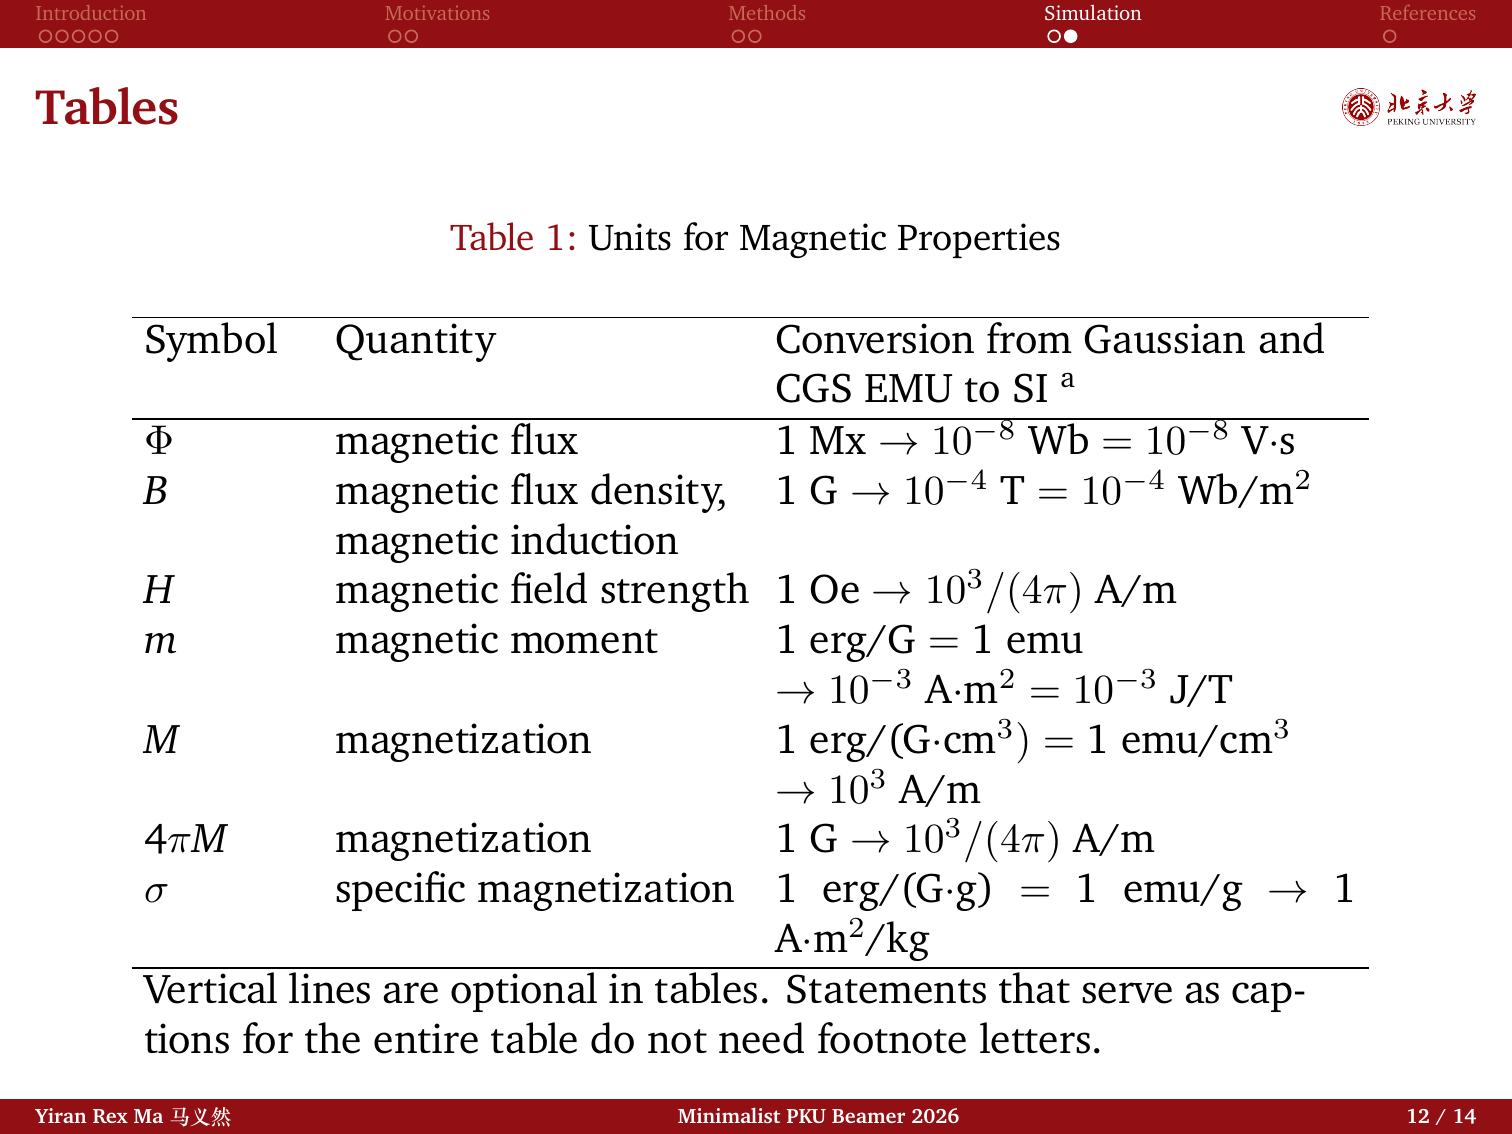
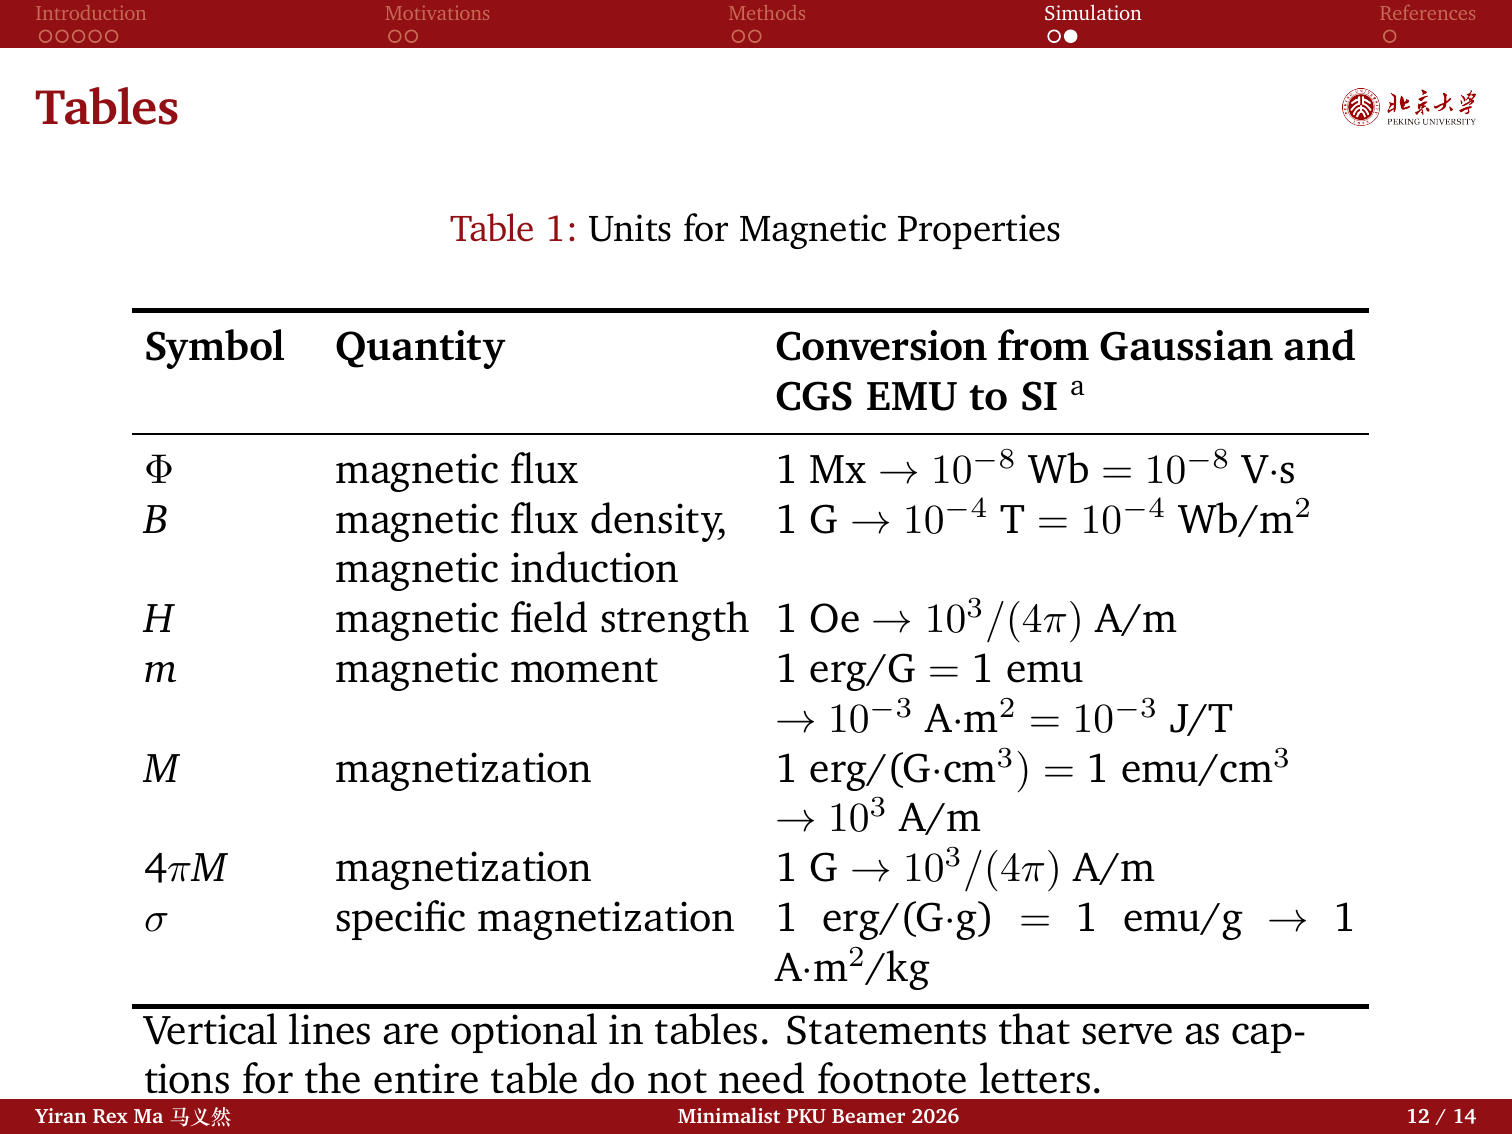
Add 4:3/16:9 aspect-ratio switch and three-line table theme (heavy outer rules, bold black headers)

diff --git a/main.tex b/main.tex
@@ -1,4 +1,5 @@
-\documentclass[10pt,hyperref={colorlinks,citecolor=peking_blue,urlcolor=peking_blue,linkcolor=}]{beamer}
+% 画幅切换：aspectratio=43（4:3，默认）↔ aspectratio=169（16:9）
+\documentclass[10pt,aspectratio=43,hyperref={colorlinks,citecolor=peking_blue,urlcolor=peking_blue,linkcolor=}]{beamer}
 \usepackage{PekingU}
 \usefonttheme{serif}
 \usepackage{lipsum}
@@ -199,11 +200,11 @@ important contents are \textcolor{peking}{\bf bold red} \citep{MachineLearningI}
         \label{table}
         \setlength{\tabcolsep}{3pt}
         \begin{tabular}{p{40pt}p{100pt}p{140pt}}
-        \hline
-        Symbol& 
-        Quantity& 
-        Conversion from Gaussian and \par CGS EMU to SI $^{\mathrm{a}}$ \\
-        \hline
+        \toprule
+        {\bfseries Symbol}&
+        {\bfseries Quantity}&
+        {\bfseries Conversion from Gaussian and \par CGS EMU to SI $^{\mathrm{a}}$} \\
+        \midrule
         $\Phi $& 
         magnetic flux& 
         1 Mx $\to  10^{-8}$ Wb $= 10^{-8}$ V$\cdot $s \\
@@ -225,7 +226,7 @@ important contents are \textcolor{peking}{\bf bold red} \citep{MachineLearningI}
         $\sigma $& 
         specific magnetization& 
         1 erg/(G$\cdot $g) $=$ 1 emu/g $\to $ 1 A$\cdot $m$^{2}$/kg \\
-        \hline
+        \bottomrule
         \multicolumn{3}{p{280pt}}{Vertical lines are optional in tables. Statements that serve as captions for 
         the entire table do not need footnote letters. }
         \end{tabular}

diff --git a/README.md b/README.md
@@ -39,7 +39,7 @@ latexmk -xelatex main.tex   # 编译（含参考文献，多轮自动）
 ./clean.sh --deep           # 连 main.pdf 一起清理
 ```
 
-日常使用：修改 `main.tex` 中的 `\title` / `\author` / `\institute` / `\date`，正文直接写中文，`Figures/` 里放你的图片即可。VS Code（LaTeX Workshop）或 Overleaf 中把编译器设为 **XeLaTeX**。
+日常使用：修改 `main.tex` 中的 `\title` / `\author` / `\institute` / `\date`，正文直接写中文，`Figures/` 里放你的图片即可。画幅切换：把 `main.tex` 文档类选项中的 `aspectratio=43` 改为 `aspectratio=169` 即可切到 16:9。VS Code（LaTeX Workshop）或 Overleaf 中把编译器设为 **XeLaTeX**。
 
 ## 字体说明
 
@@ -58,7 +58,8 @@ latexmk -xelatex main.tex   # 编译（含参考文献，多轮自动）
 5. 重写 frametitle：平面标题条 + 右上角校徽墨迹级对齐（`\settoheight`/`\settodepth` 锚定，随标题自适应）。
 6. 首页换用校徽组合图，移除失效的 `\logo` 机制，修复 logo 路径。
 7. 引用整体（含括号）着色为 `peking_blue`，`citecolor` 同步；粗体强调改用主题红 `peking`。
-8. 新增 `clean.sh`、`.gitignore`、`LICENSE`，重写双语 README。
+8. 表格主题：三线表头尾粗线 1.2pt、中间线 0.5pt，表头加粗黑色；画幅可切换 4:3 / 16:9（`aspectratio`）。
+9. 新增 `clean.sh`、`.gitignore`、`LICENSE`，重写双语 README。
 
 ---
 
@@ -83,7 +84,7 @@ latexmk -xelatex main.tex   # build (bibliography, auto-reruns)
 ./clean.sh --deep           # also remove main.pdf
 ```
 
-Edit `\title` / `\author` / `\institute` / `\date` in `main.tex`, write your slides in Chinese or English, put figures in `Figures/`. Set the compiler to **XeLaTeX** in VS Code (LaTeX Workshop) or Overleaf.
+Edit `\title` / `\author` / `\institute` / `\date` in `main.tex`, write your slides in Chinese or English, put figures in `Figures/`. To switch to 16:9, change the document-class option `aspectratio=43` to `aspectratio=169`. Set the compiler to **XeLaTeX** in VS Code (LaTeX Workshop) or Overleaf.
 
 ## Fonts
 
@@ -102,7 +103,8 @@ Edit `\title` / `\author` / `\institute` / `\date` in `main.tex`, write your sli
 5. Rewritten frametitle: flat title bar + corner emblem with ink-level alignment (`\settoheight`/`\settodepth` anchoring).
 6. Title-page emblem lockup; removed the broken `\logo` mechanism and fixed the logo path.
 7. Whole-citation coloring (`peking_blue`, parentheses included) with synced `citecolor`; theme-red bold emphasis.
-8. Added `clean.sh`, `.gitignore`, `LICENSE`; bilingual README.
+8. Table theme: three-line booktabs rules (1.2pt outer / 0.5pt middle) with bold black headers; switchable 4:3 / 16:9 (`aspectratio`).
+9. Added `clean.sh`, `.gitignore`, `LICENSE`; bilingual README.
 
 ## 致谢 / Credits
 
